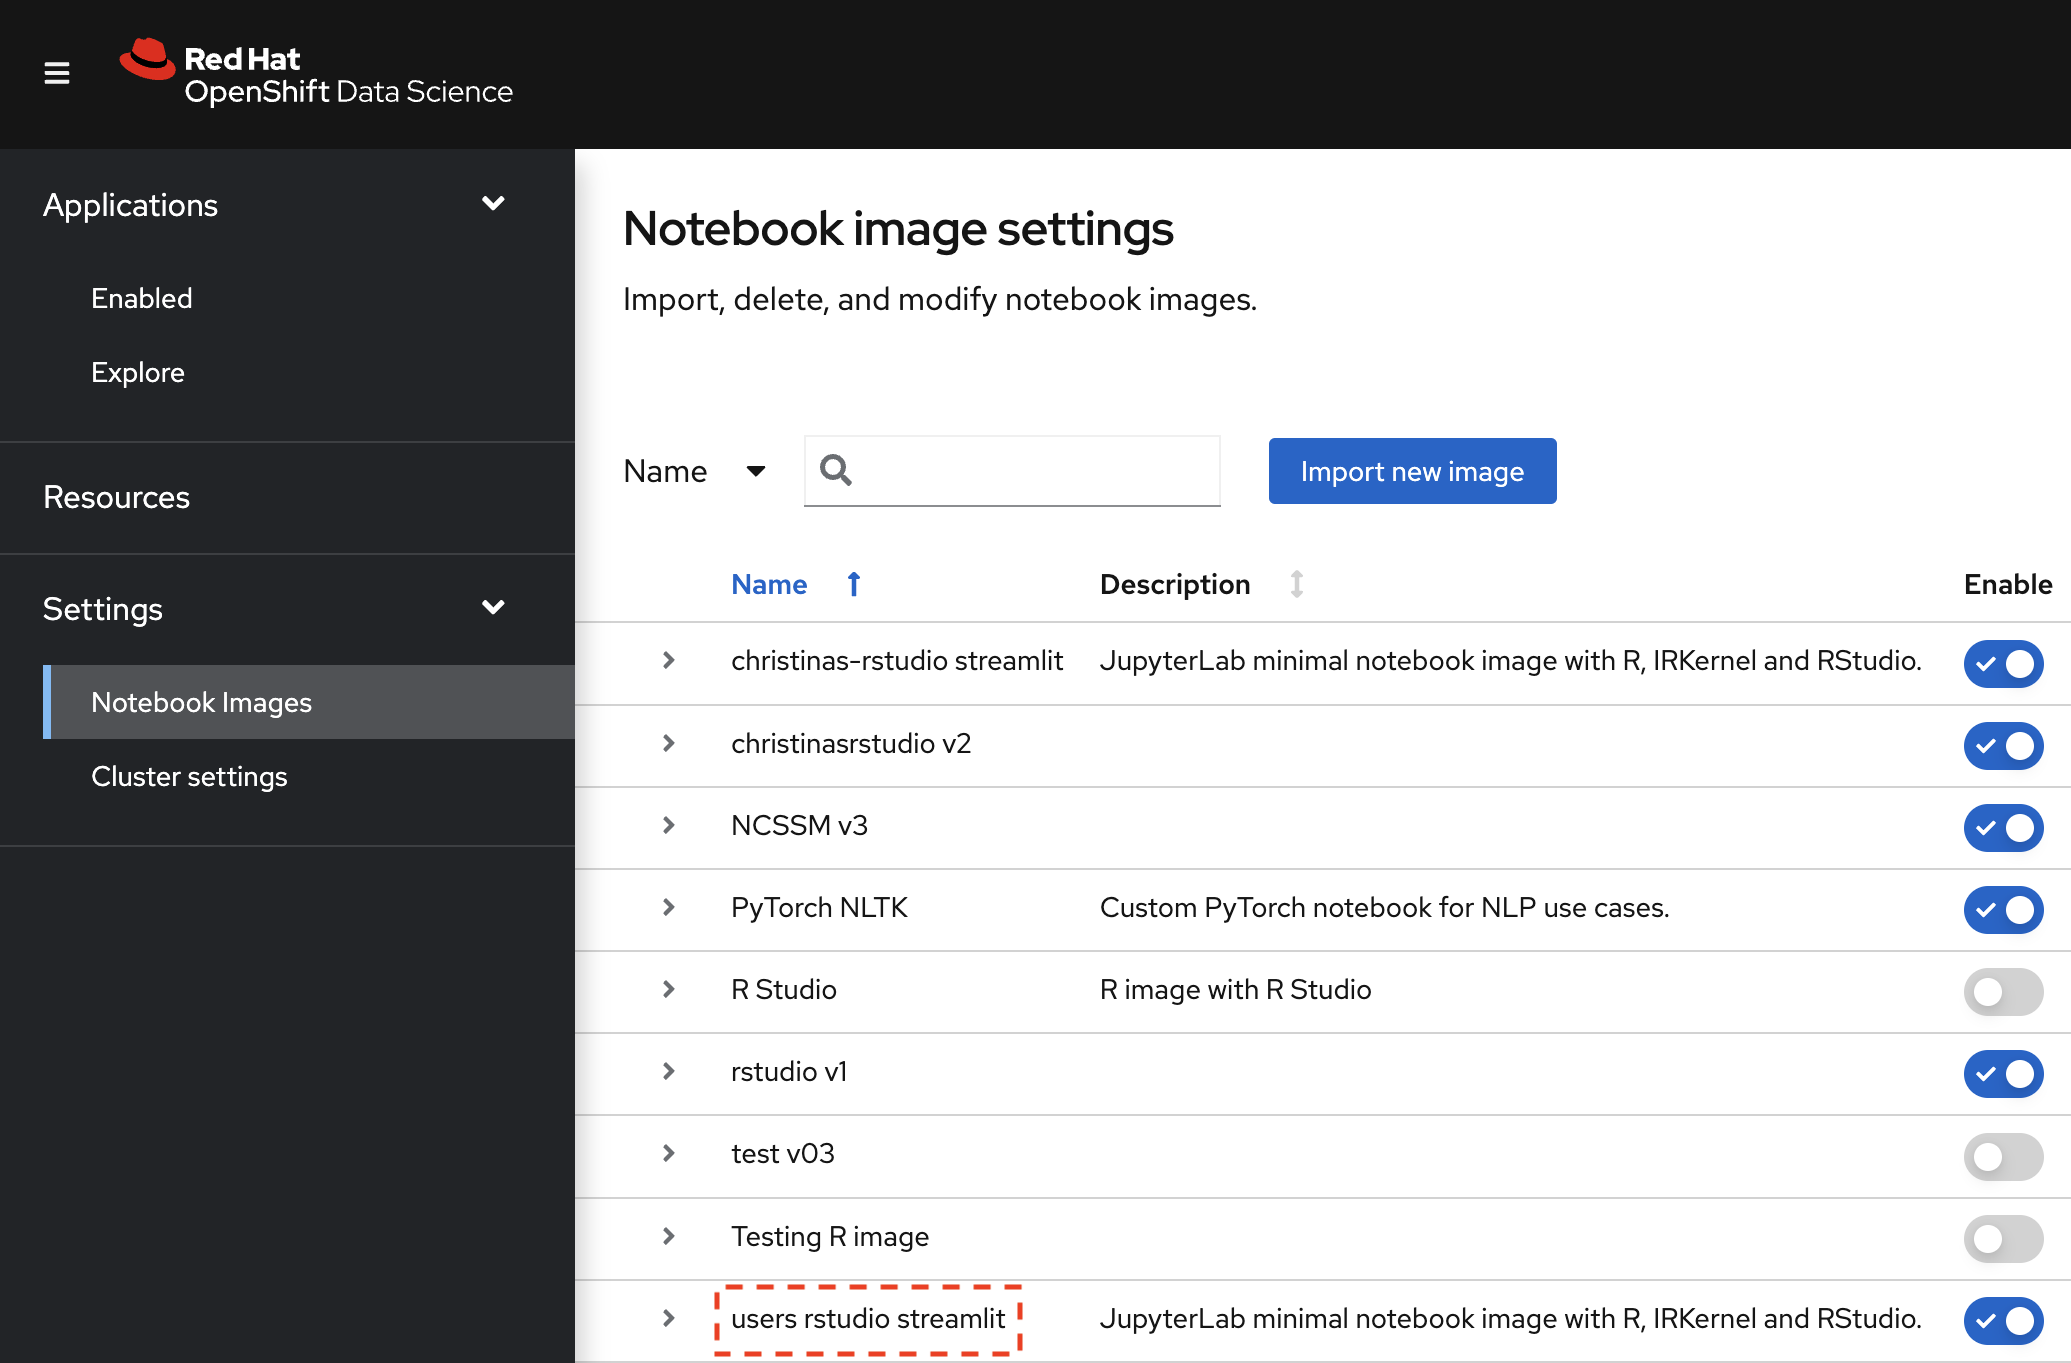
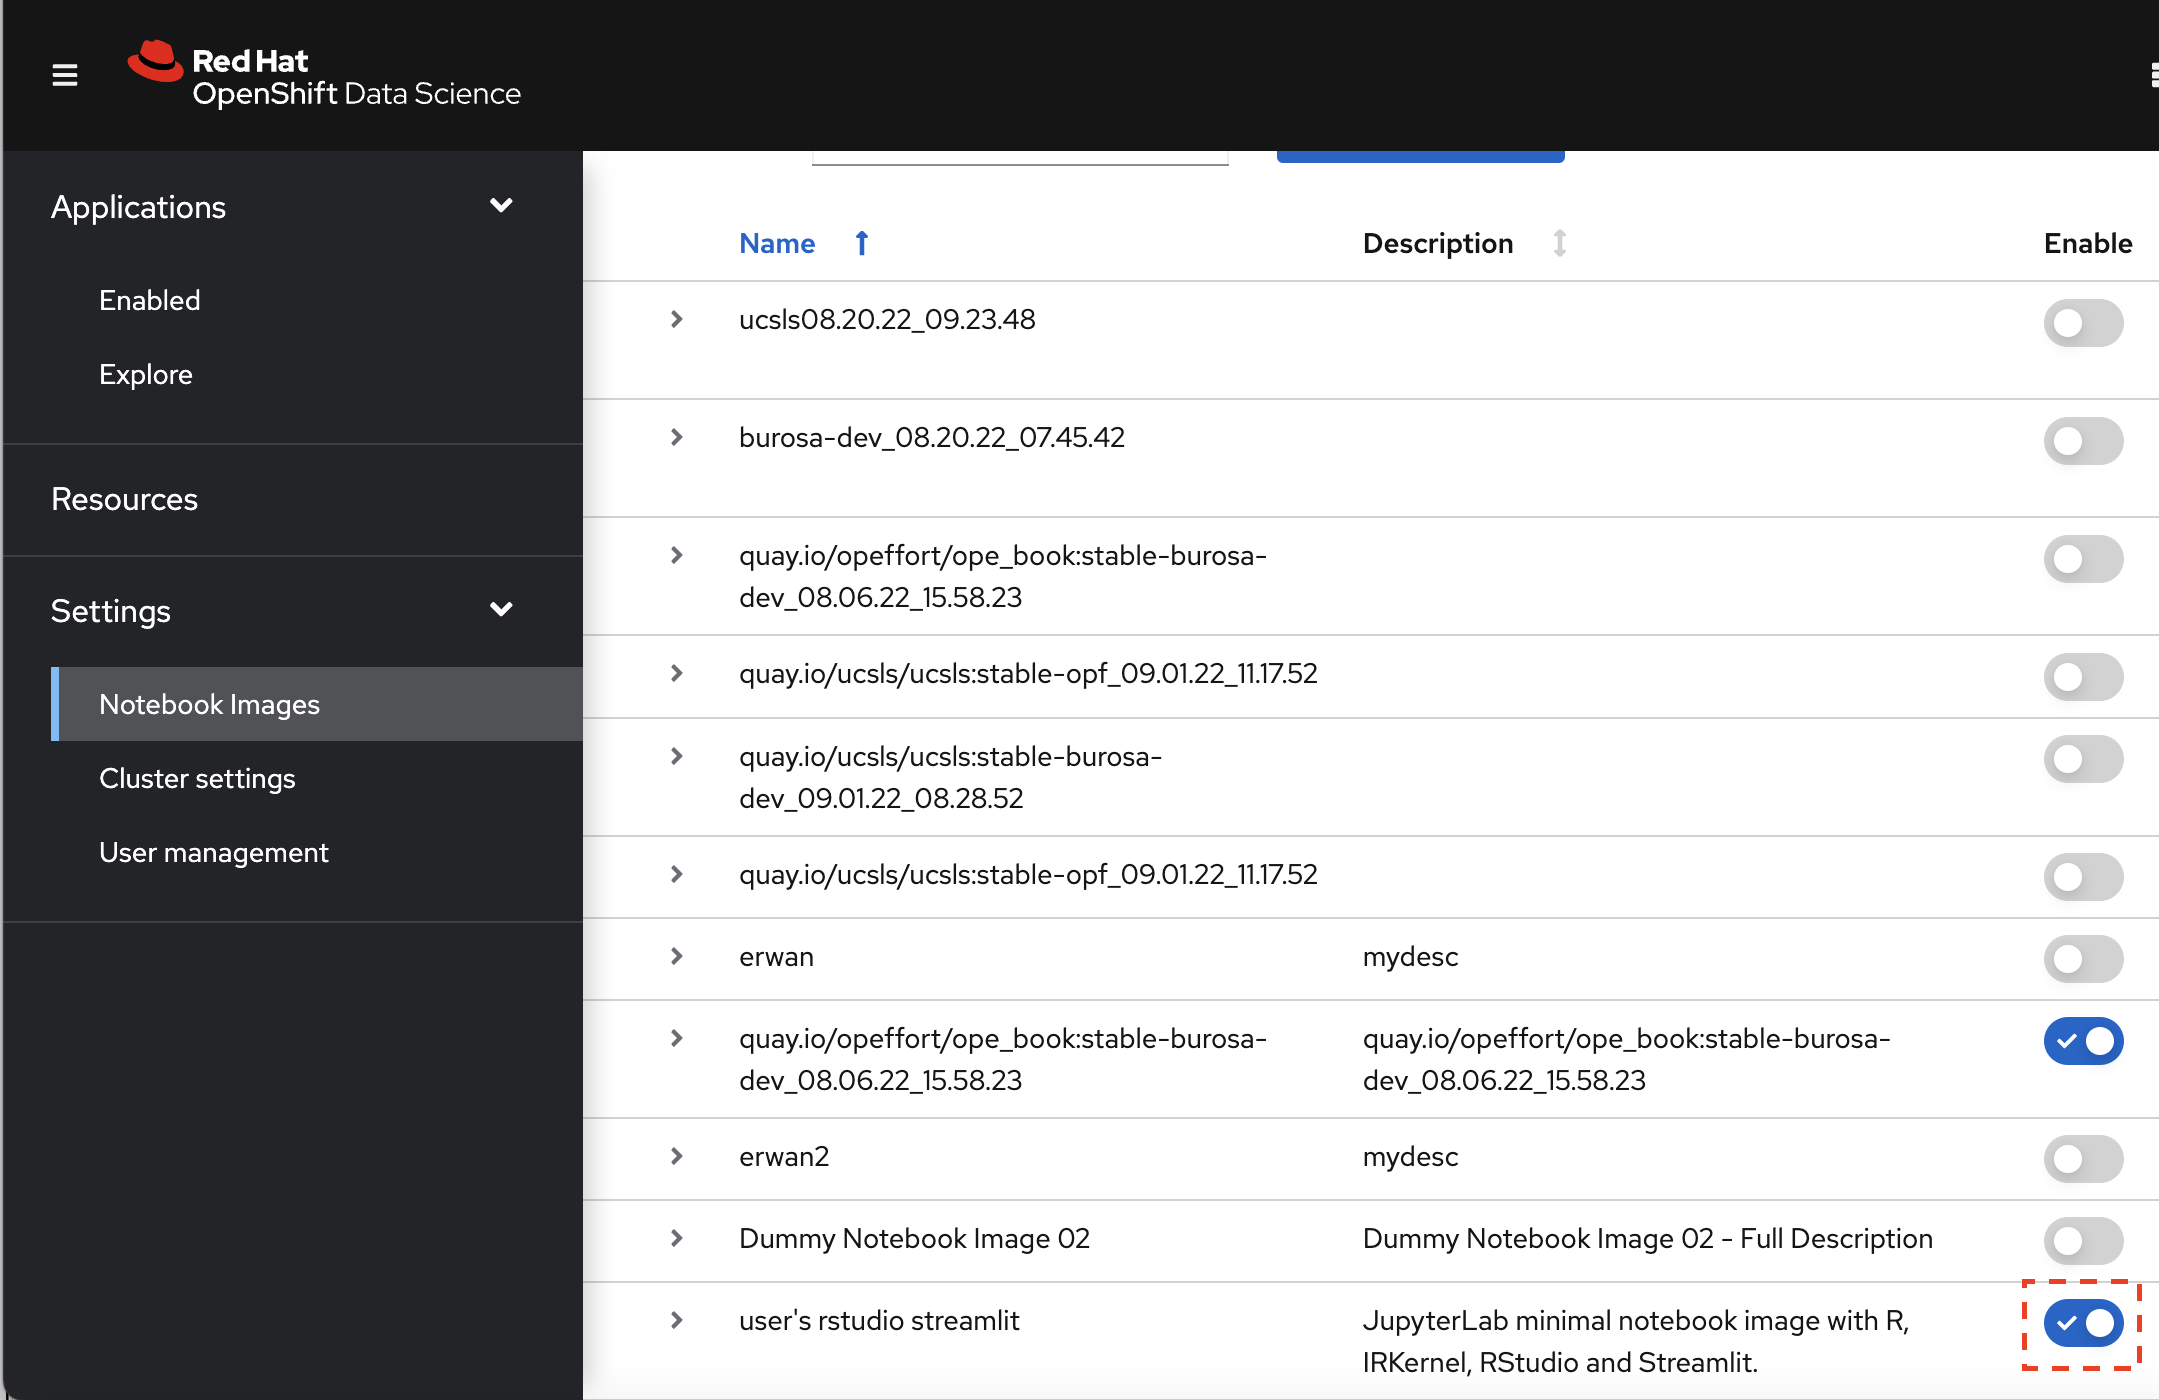
Update images

diff --git a/docs/on-cluster-build-and-storage-howto.md b/docs/on-cluster-build-and-storage-howto.md
@@ -1,6 +1,6 @@
 # Jupyter Notebook - on cluster build and storage
 
-In this document, we will go over a step-by-step walkthrough to build and store a notebook container image on the OpenShift cluster by demonstrating how to build an R notebook image with Streamlit.
+In this document, we will go over a step-by-step walkthrough to build and store a notebook container image on the OpenShift cluster by updating an R notebook image with Streamlit.
 
 ## Table of Contents
 
@@ -31,7 +31,7 @@ In this document, we will go over a step-by-step walkthrough to build and store 
     ```
     **All of the following steps will take place in this directory.**
 
-3. Head over to the [Red Hat OpenShift Console](https://console-openshift-console.apps.pilot.j61u.p1.openshiftapps.com/dashboards) and copy the login command and run it in your terminal.
+3. Head over to the [Red Hat OpenShift Console](https://console-openshift-console.apps.pilot.j61u.p1.openshiftapps.com/dashboards) and copy the login command. Paste and run it in your terminal.
 
     ![login](/img/copy-login-command.png)
 
@@ -139,16 +139,16 @@ For the purposes of this tutorial, we will update one of the R-Studio default no
 
     ![logs](/img/on-cluster-build-logs.png)
 
-3. Once your build is complete, you should be able to see it on RHODS listed in "Notebook Images" and view it as one of the JupyterHub notebook options.
+3. Once your build is complete, you should be able to see it on RHODS listed in `Notebook Images`. Make sure you enable it to view it as one of the JupyterHub notebook options.
 
     ![web-ui](/img/on-cluster-build-web-ui.png)
 
     ![jupyter-nb](/img/on-cluster-build-jupyternb.png)
 
 ## Sanity Checks
-1. On JupyterHub, select your notebook image and launch your newly built RStudio Notebook with Streamlit.
+1. On JupyterHub, select your notebook image and launch your newly built RStudio notebook image with Streamlit.
 
-2. Since this is an RStudio notebook image, do a sanity check by running the following commands:
+2. Complete a sanity check by running the following commands:
 
     ```
     print('hello world!')
@@ -156,7 +156,7 @@ For the purposes of this tutorial, we will update one of the R-Studio default no
     ```
     ![rstudio](/img/r-studio-sanity-check.png)
 
-3. Within your R notebook, open the terminal and run the following command to check if Strealit was properly installed:
+3. Within your R notebook, open the terminal and run the following command to check if Streamlit was properly installed:
 
     ```
     streamlit hello
